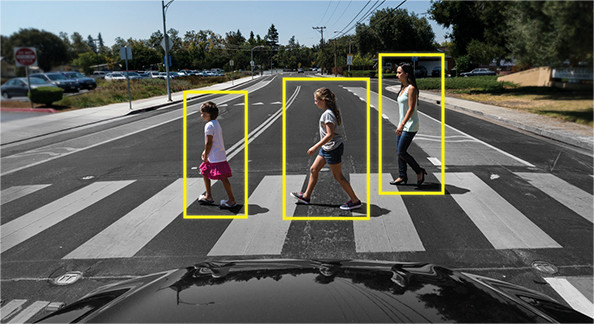
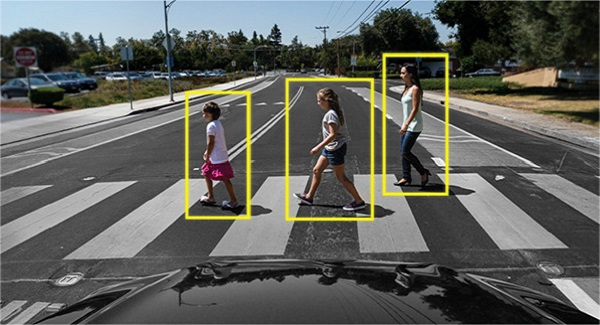
Change index.html

diff --git a/templates/index.html b/templates/index.html
@@ -10,11 +10,20 @@
               integrity="sha384-9gVQ4dYFwwWSjIDZnLEWnxCjeSWFphJiwGPXr1jddIhOegiu1FwO5qRGvFXOdJZ4" crossorigin="anonymous">
 
         <title>Pedestrian Detection</title>
+
+        <style>
+            img{
+                box-shadow: 0px 0px 4px 4px gray;
+                margin-top: 8px;
+                margin-bottom: 8px;
+            }
+        </style>
     </head>
     <body>
         <!--navigation bar-->
         <header>
-            <nav class="navbar navbar-expand-lg navbar-dark bg-dark">
+            <nav class="navbar navbar-expand-lg navbar-dark bg-dark fixed-top">
+                <a class="navbar-brand" href="/">Pedestrian Detection</a>
                 <div class="collapse navbar-collapse" id="navbarNav">
                     <ul class="navbar-nav">
                         <li class="nav-item active">
@@ -62,14 +71,18 @@
                 </div>
 
                 <!--the content-->
-                <div class="row align-items-center">
-                    <p class="lead mt-4">
-                        行人检测的介绍内容待添加
-                    </p>
-                    <p class="lead mb-4">
-                        待添加
-                    </p>
-                </div>
+                <p class="mt-4">
+                    <strong>行人检测系统功能：</strong><br>
+                    此行人检测系统能够同时对四个摄像头进行行人检测，并将检测结果实时显示web前端
+                </p>
+                <p class="mb-4">
+                    <strong>行人检测系统的工作流程：</strong><br>
+                    1. 由FFServer开启四路视频流，每一路视频流对应一个摄像头。<br>
+                    2. 由视频帧处理模块对实时视频流进行解帧。<br>
+                    3. 由行人检测模块对帧进行行人检测。<br>
+                    4. 由kafka通信模块将行人检测结果存放到fafka数据库。<br>
+                    5. 由web前端从kafka拿取检测结果，并将检测结果实时显示到前端。
+                </p>
             </div>
         </main>
 

diff --git a/run.py b/run.py
@@ -18,11 +18,6 @@ def cameras():
     return render_template("cameras.html")
 
 
-@app.route("/test")
-def test():
-    return render_template("test.html")
-
-
 def generate_camera1(camera):
     """Video streaming generator function."""
     while True:
